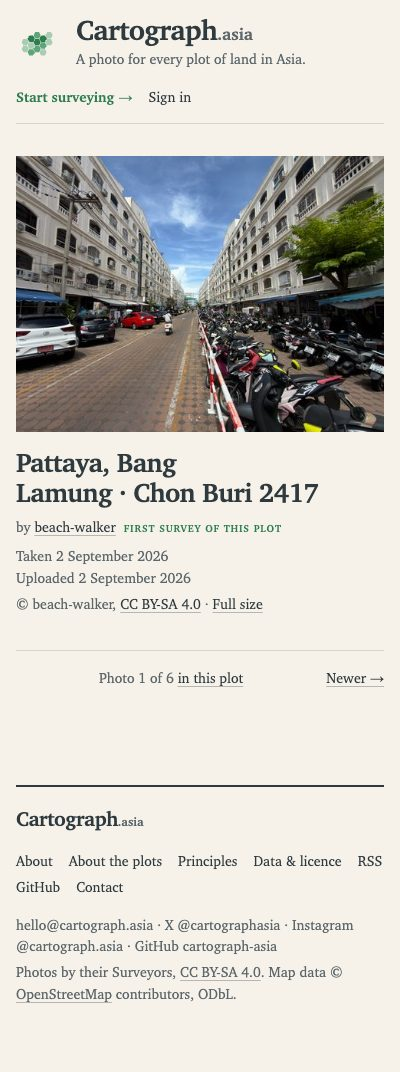
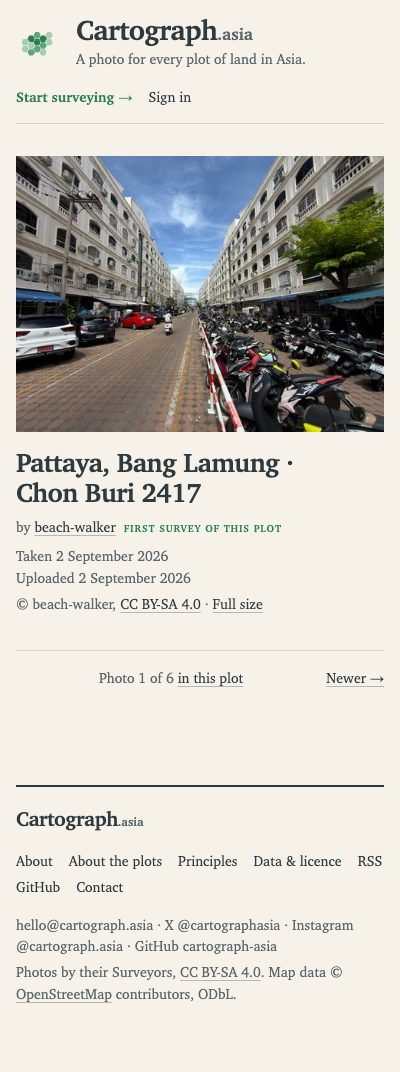
web: wrap plot-name headings without balancing

Changed region(s): [[0.03, 0.4002, 0.75, 0.4925], [0.78, 0.431, 0.81, 0.4618]]

diff --git a/internal/web/static/style.css b/internal/web/static/style.css
@@ -78,6 +78,9 @@ h1 .th { font-size: 0.6em; letter-spacing: 0; }
    after the dot (funcs.go heading). */
 .nb { white-space: nowrap; }
 .pv { display: inline-block; }
+/* Balancing would move the break of a plot name to "Pattaya, Bang" /
+   "Lamung · Chon Buri 2417"; the map panel's titles wrap plainly too. */
+h1:has(.nb) { text-wrap: wrap; }
 .note, .meta { color: var(--ink-muted); font-size: var(--step-meta); }
 .details { color: var(--ink-muted); font-size: var(--step-small); margin-top: var(--s-l); }
 .details code { font-size: inherit; }

diff --git a/docs/decisions.md b/docs/decisions.md
@@ -195,6 +195,6 @@ Decisions made while building Cartograph that are not in `CLAUDE.md` or a brief.
 - 2026-11-01 – Wordmark (Adrian, CLAUDE.md): the site stands as `Cartograph.asia` in the masthead and footer (partial `wordmark`: ".asia" in a `.tld` span at 0.6 em, muted ink, same baseline), in `<title>` ("{page} · Cartograph.asia"), `og:site_name`, the feed alternates and the RSS channel titles (`views.Wordmark`), and on the `/map` page's brand and title. Running text, descriptions and the sign-in e-mail keep "Cartograph". The page tests reject "Cartograph Asia" in visible text; handles such as `cartograph-asia` keep their spelling.
 - 2026-11-01 – E-mails carry the wordmark too (Adrian, CLAUDE.md): the sign-in mail's signature reads "Cartograph.asia – a photo for every plot of land" and the sender name defaults to `Cartograph.asia <hello@cartograph.asia>` in `deploy/docker-compose.yml` and `deploy/.env.example`. The subject and body text keep "Cartograph". An existing `.env` with its own `MAIL_FROM` overrides the default.
 - 2026-11-01 – Round 2 of `docs/DESIGN_BRIEF.md` (direction a on every page): page heads share one pattern (kicker on plot, Surveyor, region and error pages, display title, meta line, figures; notes at the 38 rem measure); every section below uses the front page's 2 px rule and large head with its note or "Open on the map →" on the head's line. Surveyor and region counters are `ul.figures.small` with numbers at the section-head size. Notes in `docs/design/round-2/README.md`.
-- 2026-11-01 – Plot names as page titles come from `heading` (`internal/web/funcs.go`), which wraps `PlotRef.Name()`: the dot stays with the word before it (a no-wrap span; Chrome breaks before a no-wrap span that starts with the space) and province plus number are one inline block, so long names break as "Pattaya, Bang Lamung ·" / "Chon Buri 2417". The plot title is at the section-head size on phones and display size from 40 rem; Thai names in titles are at 0.6 em in muted ink.
+- 2026-11-01 – Plot names as page titles come from `heading` (`internal/web/funcs.go`), which wraps `PlotRef.Name()`: the dot stays with the word before it (a no-wrap span; Chrome breaks before a no-wrap span that starts with the space) and province plus number are one inline block, so long names break as "Pattaya, Bang Lamung ·" / "Chon Buri 2417". These headings wrap without `text-wrap: balance`, which would move the break to "Pattaya, Bang" / "Lamung · …" (the map panel does the same). The plot title is at the section-head size on phones and display size from 40 rem; Thai names in titles are at 0.6 em in muted ink.
 - 2026-11-01 – Photo grids take an optional fourth argument to `grid` ("plot" or "surveyor") and leave out what all their photos share: plot pages caption Surveyor, then time; Surveyor pages caption plot, then time. "Most active" lists are ranked rows (muted rank, name, counts right-aligned). The regions list has a fixed 13 rem last column so all bars end at the same x.
 - 2026-11-01 – Photo page: no letterbox (width auto, at most 88 vh, centred); caption in two columns from 64 rem (title and byline; dates, licence, full size). Forms: square fields on `--paper-light` (new token, was a literal), small-caps labels, green filled submit with square corners, errors and invalid fields in `--error`. Error page: kicker "Error {status}", message as lede, three ways on.
